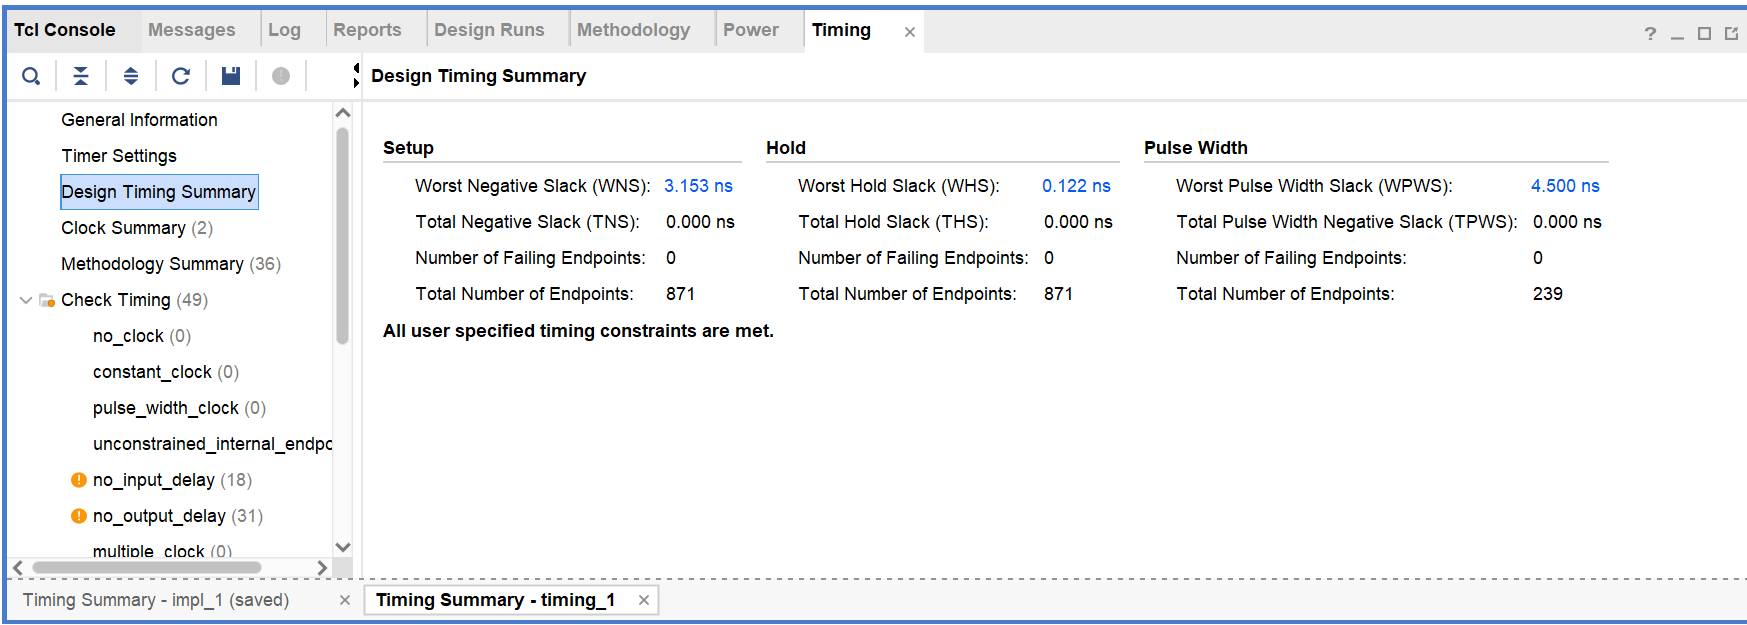
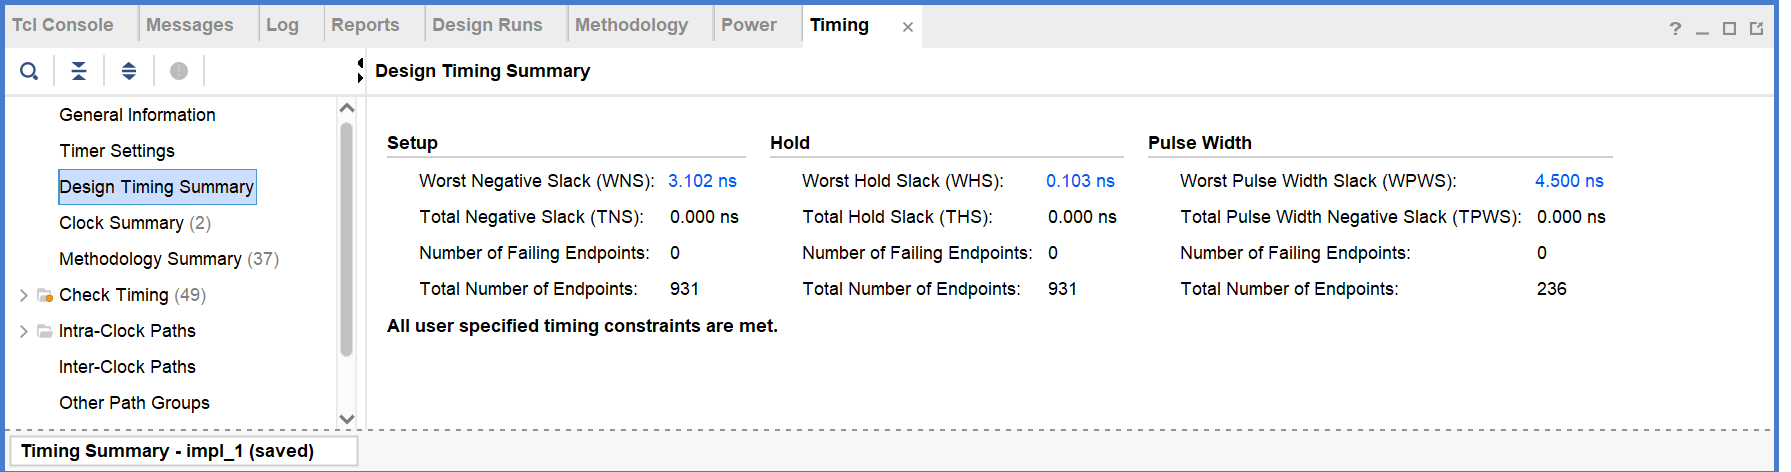
lab09: 单周期 CPU 提升到 25MHz，更新时序与报告

diff --git a/lab09/lab09实验报告.md b/lab09/lab09实验报告.md
@@ -92,28 +92,28 @@ BR_JALR: nextpc = {rs1_imm[31:1], 1'b0};
 
 ### 2.4 单周期时序
 
-上板的 CPU 只有一个时钟：100MHz 分频出的 `cpu_clk`，周期 1.28us，高电平 10ns，经 BUFG 送到全局时钟网。指令 ROM、数据存储器和 CPU 本体都挂在这根时钟上，没有反相时钟网，也没有第二个时钟域。一个 10ns 脉冲执行一条指令，边沿分工如下：
+上板的 CPU 只有一个时钟：100MHz 四分频出的 `cpu_clk`，周期 40ns，高电平 10ns，经 BUFG 送到全局时钟网。指令 ROM、数据存储器和 CPU 本体都挂在这根时钟上，没有反相时钟网，也没有第二个时钟域。一个 10ns 高电平执行一条指令，边沿分工如下：
 
 | 时刻 | 动作 |
 | :--- | :--- |
 | 上升沿 $t=0$ | 数据存储器读出整字，锁进内部读寄存器 |
 | 高电平 $0\sim10\mathrm{ns}$ | 读出的字经 `memop` 选择、符号扩展和写回选择器，送到寄存器堆的写数据端 |
 | 下降沿 $t=10\mathrm{ns}$ | PC 装入 NextPC；指令 ROM 按 NextPC 读出 `mem[NextPC]`；寄存器堆写回上一条指令的结果；数据存储器按 `memop` 改写字节或半字；结果寄存器锁存写往 `0x2004` 的数据 |
-| 低电平 $10\mathrm{ns}\sim1.28\mathrm{\mu s}$ | 取出的指令经译码、立即数生成、读寄存器堆、ALU 运算，得到访存地址，等下一个上升沿 |
+| 低电平 $10\mathrm{ns}\sim40\mathrm{ns}$ | 取出的指令经译码、立即数生成、读寄存器堆、ALU 运算，得到访存地址，等下一个上升沿 |
 
-三段路径的时间预算不同。上升沿到下降沿只有 10ns，里面只有“读出的字向下游走”这一段：`memop` 选择、符号扩展和写回选择器，没有取指也没有 ALU，这是唯一受压的一段，时序报告里的 WNS 就落在这里。下降沿到上升沿有 1.27us，整条取指译码和 ALU 通路都在这段里。下降沿到下降沿是一个完整周期 1.28us，NextPC 的加法属于这一段。
+三段路径的时间预算不同。上升沿到下降沿只有 10ns，里面只有“读出的字向下游走”这一段：`memop` 选择、符号扩展和写回选择器，没有取指也没有 ALU，这是余量最小的一段。下降沿到上升沿有 30ns，整条取指译码、读寄存器堆和 ALU 通路都在这段里，Load/Store 的访存地址也要在这 30ns 内算出来。下降沿到下降沿是一个完整周期 40ns，NextPC 的加法属于这一段。
 
 寄存器堆的写和 PC 的装发生在同一个下降沿。寄存器堆的读是异步的，新值在同沿之后立刻可读，而它参与的 NextPC 要等下一个下降沿才被 PC 采样，中间隔了一整个周期，所以两个动作同沿并不冲突。指令存储器的地址则必须用 NextPC 而不是 PC：取指和 PC 更新在同一个下降沿，PC 的输出要等这个沿之后才更新，而存储器在沿上采样地址，只能拿到沿之前就稳定的 NextPC。
 
 由此带来一个容易忽略的细节：testbench 在 reset 有效期间也要产生一个下降沿，让 NextPC 的 0 被送入指令存储器，把 0 地址的指令取出来。否则 reset 释放后的第一个下降沿会拿未初始化的指令去算 NextPC，PC 会变成不定值。实验指导中“nextPC 在 reset 有效时应保持为全零”说的就是这件事。
 
-load 指令最紧：数据存储器在上升沿读出，读出的字要在同一个高电平的 10ns 内完成 `memop` 选择、符号扩展和写回选择，赶上下一个下降沿写进寄存器堆。其余指令的写回数据来自 ALU，同样在 10ns 内，但路径更短。
+load 指令有两段路径要分开看。数据存储器在上升沿读出，读出的字要在同一个高电平的 10ns 内完成 `memop` 选择、符号扩展和写回选择，赶上下一个下降沿写进寄存器堆；这是 10ns 段。load/store 的访存地址要在低电平的 30ns 内由译码、寄存器读和 ALU 算出来，赶上下一个上升沿的存储器读取；这是 30ns 段，也是实验指导提到的 Load 地址生成关键路径。25MHz 下两段都要有正余量。
 
 ### 2.5 上板顶层与存储器映射
 
 上板工程按功能拆成 `cpu_top.v`、`rv32is.v`、`prog_rom.v`、`board_dmem.v` 四个 Verilog 文件，顶层只负责时钟、复位、存储器映射和外设。为了用同一份 ROM 演示多个程序，4 段程序各占 256 字的 ROM 空间，由 `SW[15:14]` 选择。机器码由 `make_rom.py` 从 `prog_*.S` 汇编成 `prog.hex`，`prog_rom.v` 用 `$readmemh` 在 `initial` 中把 1024 个字装进 BRAM。
 
-指令 ROM、数据存储器和 CPU 共用同一个 `cpu_clk`，取指的下降沿做在 `prog_rom` 内部，顶层不需要另外产生反相时钟。复位脉冲同样给出一个下降沿，把 0 地址的指令预先读出来，第一次取指不会拿到未初始化的数据。
+指令 ROM、数据存储器和 CPU 共用同一个 `cpu_clk`，取指的下降沿做在 `prog_rom` 内部，顶层不需要另外产生反相时钟。自动模式下 `cpu_clk` 连续运行，复位期间 PC 保持 0，ROM 已经在读 0 地址；单步模式下复位脉冲给出一个下降沿，也能把 0 地址的指令预先读出来。第一次取指不会拿到未初始化的数据。
 
 CPU 的数据地址空间划分为：
 
@@ -190,14 +190,14 @@ assign dmemwrclk = ~clock;  // 下降沿写数据存储器
 板上资源分配：
 
 - `SW[15:14]` 选择程序，00 累加和、01 斐波那契、10 闰年判断、11 素数判断；
-- `SW[13]` 为 1 时自动运行，约 780kHz，为 0 时用 `BTNC` 单步；
+- `SW[13]` 为 1 时自动运行，25MHz，为 0 时用 `BTNC` 单步；
 - `SW[11:0]` 是参数 n，范围 `0x000` 到 `0xFFF`，`SW[12]` 未使用；
 - `CPU_RESETN` 是板上红色的 CPU RESET 按钮，低有效。上电时另有约 2.6ms 的上电复位；改参数或换程序时先设好开关，再按一下 `CPU_RESETN`，复位期间开关被锁存，运行中改开关不影响本次结果；`BTNC` 只用于单步，不是复位；
-- 顶层在复位开始时产生一个 10ns 的 CPU 时钟脉冲，单步模式下没有运行时钟时也能把 PC 和结果寄存器清 0；
+- 自动模式下 CPU 时钟是连续的 25MHz，复位在 `cpu_clk` 域同步释放；单步模式下没有运行时钟，复位时产生一个 10ns 脉冲，把 PC 和结果寄存器清 0；
 - `LED[15:0]` 显示 PC 的低 16 位；
 - 8 位数码管以十六进制显示 32 位结果。
 
-上板操作顺序是：先用 `SW[15:14]` 选程序、`SW[13]` 选自动或单步、`SW[11:0]` 输入 n，再按一下红色 `CPU_RESETN`；`SW[13]=1` 时程序自动运行到停机，`SW[13]=0` 时每按一次 `BTNC` 执行一条指令；最后读数码管上的 8 位十六进制结果。按住复位时 PC 和显示保持 0，松开后自动模式会马上重跑程序，所以显示很快回到计算结果；想看复位过程可以切到单步模式。
+上板操作顺序是：先用 `SW[15:14]` 选程序、`SW[13]` 选自动或单步、`SW[11:0]` 输入 n，再按一下红色 `CPU_RESETN`；`SW[13]=1` 时程序自动运行到停机，`SW[13]=0` 时每按一次 `BTNC` 执行一条指令；最后读数码管上的 8 位十六进制结果。25MHz 下程序在几百微秒内跑完，自动模式通常只能看到最终结果；按住复位时 PC 和显示保持 0，松开后自动模式会马上重跑；想看复位过程可以切到单步模式。
 
 四段汇编程序分别是 `prog_sum.S`、`prog_fib.S`、`prog_leap.S`、`prog_prime.S`，由 `make_rom.py` 调用 `tools/rvasm.py` 汇编，生成 `prog.hex`。每段 256 字，用 `@000`、`@100`、`@200`、`@300` 分段，不足 256 字的部分补 nop。修改程序后执行：
 
@@ -251,27 +251,38 @@ xor     xori
 | 闰年判断 | 2024、1900、2000、2023、400 | 0x00000001、0x00000000、0x00000001、0x00000000、0x00000001 |
 | 素数判断 | 0、1、2、4、7、15、97 | 0x00000000、0x00000000、0x00000001、0x00000000、0x00000001、0x00000000、0x00000001 |
 
-上板时按住红色 `CPU_RESETN`，PC 和结果寄存器立即清 0，数码管显示 `0x00000000`；松开后自动模式会马上重跑程序，所以显示很快回到计算结果，单步模式则停在 PC=0，等按 `BTNC` 才执行第一条指令。改参数或换程序后，先设好开关，再按一下 `CPU_RESETN` 重新锁存。自动运行结束后 `LED[15:0]` 稳定显示停机地址的低 16 位：累加和为 `0x0028`，斐波那契为 `0x0034`，闰年判断为 `0x0044`，素数判断为 `0x0048`。单步模式下每按一次 `BTNC` 执行一条指令，PC 一般加 4，遇到跳转时按程序给出的目标地址变化。
+上板时按住红色 `CPU_RESETN`，PC 和结果寄存器立即清 0，数码管显示 `0x00000000`；松开后自动模式会马上重跑程序，所以显示很快回到计算结果，单步模式则停在 PC=0，等按 `BTNC` 才执行第一条指令。改参数或换程序后，先设好开关，再按一下 `CPU_RESETN` 重新锁存。自动运行结束后 `LED[15:0]` 稳定显示停机地址的低 16 位：累加和为 `0x0028`，斐波那契为 `0x0034`，闰年判断为 `0x0044`，素数判断为 `0x0048`。单步模式下每按一次 `BTNC` 执行一条指令，PC 一般加 4，遇到跳转时按程序给出的目标地址变化。以上结果来自之前的逻辑功能验证；25MHz 版本目前完成了综合、实现和时序分析，尚未重新上板。
 
 ### 5.4 综合资源与时序
 
-整个设计占 1283 个 LUT、147 个触发器、44 个 LUTRAM 和 2 个 Block RAM，IO 用了 51 个，占用 24.29%。LUT 占 2.02%，Block RAM 占 1.48%，LUTRAM 和触发器都在 0.3% 以下。
+整个设计占 1305 个 LUT、144 个触发器、44 个 LUTRAM 和 2 个 Block RAM，IO 用了 51 个，占用 24.29%。LUT 占 2.06%，Block RAM 占 1.48%，LUTRAM 和触发器都在 0.3% 以下。
 
 ![exp2 资源占用](assets/exp2_utilization.png)
 
-分层报告可以看出资源去向：CPU 本体占 259 个 LUT 和 32 个触发器，寄存器堆用掉了全部 44 个 LUTRAM；指令 ROM 占 980 个 LUT 和 1 个 Block RAM；数据存储器占 25 个 LUT 和 1 个 Block RAM。
+分层报告可以看出资源去向：CPU 本体占 267 个 LUT 和 32 个触发器，寄存器堆用掉了全部 44 个 LUTRAM；指令 ROM 占 995 个 LUT 和 1 个 Block RAM；数据存储器占 27 个 LUT 和 1 个 Block RAM。
 
 ![exp2 资源分层](assets/exp2_hierarchy.png)
 
-时序报告里有两根时钟：100MHz 的系统时钟和顶层分频得到的 `cpu_clk`。后者由逻辑产生，Vivado 不会自动把它当成时钟根，必须在 XDC 里用 `create_generated_clock` 按真实波形声明，周期 1.28us、高电平 10ns，写成 `-edges {1 3 257}`。不声明的话 CPU 内部的寄存器全部记成 `no_clock`，时序报告里那点正余量只覆盖 100MHz 那一小块。
+时序报告里有两根时钟：100MHz 的系统时钟和顶层四分频得到的 `cpu_clk`。后者由逻辑产生，Vivado 不会自动把它当成时钟根，必须在 XDC 里用 `create_generated_clock` 按真实波形声明，周期 40ns、高电平 10ns，写成 `-edges {1 3 9}`。不声明的话 CPU 内部的寄存器全部记成 `no_clock`，时序报告里那点正余量只覆盖 100MHz 那一小块。
 
 ![exp2 时钟报告](assets/exp2_clock.png)
 
-声明之后 871 个端点全部参与分析，两个域都没有违例：WNS 3.153ns、WHS 0.122ns、最差脉宽余量 4.500ns，TNS 和 THS 都是 0，工具结论是所有时序约束都已满足。
-
-WNS 对应的路径就是 2.4 节里那段 10ns：上升沿读出的字经 `memop` 选择、符号扩展和写回选择器，送到寄存器堆的写数据端。其余路径要么有 1.27us，要么跨整个周期 1.28us。
+声明之后 931 个端点全部参与分析，两个域都没有违例：WNS 3.102ns、WHS 0.103ns、最差脉宽余量 4.500ns，TNS 和 THS 都是 0，工具结论是所有时序约束都已满足。
 
 ![exp2 时序报告](assets/exp2_timing.png)
+
+Intra-Clock Paths 把两根时钟分开看：
+
+| 时钟 | WNS | WHS | WPWS |
+| :--- | ---: | ---: | ---: |
+| `cpu_clk` | 3.102ns，上升沿到下降沿 | 0.323ns | 8.750ns |
+| `sys_clk_pin` | 3.128ns，上升沿到上升沿 | 0.103ns | 4.500ns |
+
+WNS 3.102ns 落在 `cpu_clk` 的上升沿到下降沿，也就是 2.4 节里的 10ns 高电平段：dmem 读出经 `memop` 选择、符号扩展和写回选择器，送到寄存器堆的写数据端。Load 地址生成属于下降沿到上升沿的 30ns 段，不是最差路径，余量更大；完整周期 40ns 的 NextPC 路径余量也更大。
+
+整体 WHS 0.103ns 来自 100MHz 的 `sys_clk_pin` 域，`cpu_clk` 自己的 hold 余量是 0.323ns。两者都为正，但余量都不大，后面再改 RTL 或约束时要重新检查 hold。脉宽余量的整体最差值 4.500ns 也来自 100MHz 域，`cpu_clk` 的脉宽余量是 8.750ns。
+
+![exp2 时钟路径](assets/exp2_clockpath.png)
 
 ## 6. 思考题
 

diff --git a/lab09/exp2_board/README.md b/lab09/exp2_board/README.md
@@ -41,13 +41,19 @@ always @(posedge clk) dout <= mem[{prog, addr}];
 | 10 | 闰年判断 | 1 表示闰年，0 表示不是 |
 | 11 | 素数判断 | 1 表示素数，0 表示不是 |
 
-- `SW[13]`：1 为自动运行，约 780kHz；0 为 BTNC 单步。
+- `SW[13]`：1 为自动运行，25MHz；0 为 BTNC 单步。
 - `SW[11:0]`：参数 n，三位十六进制，范围 `0x000` 到 `0xFFF`。`SW[12]` 未使用。
 - `CPU_RESETN` 是板上红色 CPU RESET 按钮，低有效。上电时另有约 2.6ms 的上电复位；改参数或换程序时先设好开关，再按一下 `CPU_RESETN`，复位期间开关被锁存；`BTNC` 只用于单步，不是复位。
 - `LED[15:0]` 显示 PC 低 16 位。
 - 数码管以十六进制显示 32 位结果，程序把二进制结果写到 `0x2004`。
 
-上板流程：先设好程序、模式和 n，按一下红色 `CPU_RESETN` 锁存并复位；`SW[13]=1` 时程序自动运行到停机，`SW[13]=0` 时用 `BTNC` 逐条执行；结果显示在数码管上。按住复位时 PC 和显示保持 0；松开后自动模式会马上重跑，所以显示很快恢复，想看复位过程请用单步模式。
+上板流程：先设好程序、模式和 n，按一下红色 `CPU_RESETN` 锁存并复位；`SW[13]=1` 时程序自动运行到停机，`SW[13]=0` 时用 `BTNC` 逐条执行；结果显示在数码管上。按住复位时 PC 和显示保持 0；松开后自动模式会马上重跑，所以显示很快恢复，想看复位过程请用单步模式。25MHz 下最大的测试程序也在几百微秒内跑完，自动模式通常只能看到最终结果。
+
+## 时钟与频率
+
+CPU 时钟由 100MHz 四分频得到，25MHz，周期 40ns，高电平 10ns。`DIV_BITS=2` 与 XDC 的 `-edges {1 3 9}` 必须对应。时序约束把 10ns 高电平内的路径和 30ns 低电平内的路径分开分析，25MHz 下的关键路径是 Load 指令的地址生成，和 lab09 手册的目标一致。改频率时必须同时修改 `DIV_BITS` 和 XDC，否则 Vivado 分析的时钟和板上实际波形不一致。
+
+如果 25MHz 的 WNS 仍为负，可以先把 `DIV_BITS` 改成 3，得到 12.5MHz、周期 80ns，XDC 改成 `-edges {1 3 17}`；或者用 MMCM 产生 20MHz。不要只改 XDC 不改分频参数。
 
 闰年规则是能被 4 整除且不能被 100 整除，或者能被 400 整除。例如
 2024 显示 `0x00000001`，1900 显示 `0x00000000`，2000 显示 `0x00000001`。
